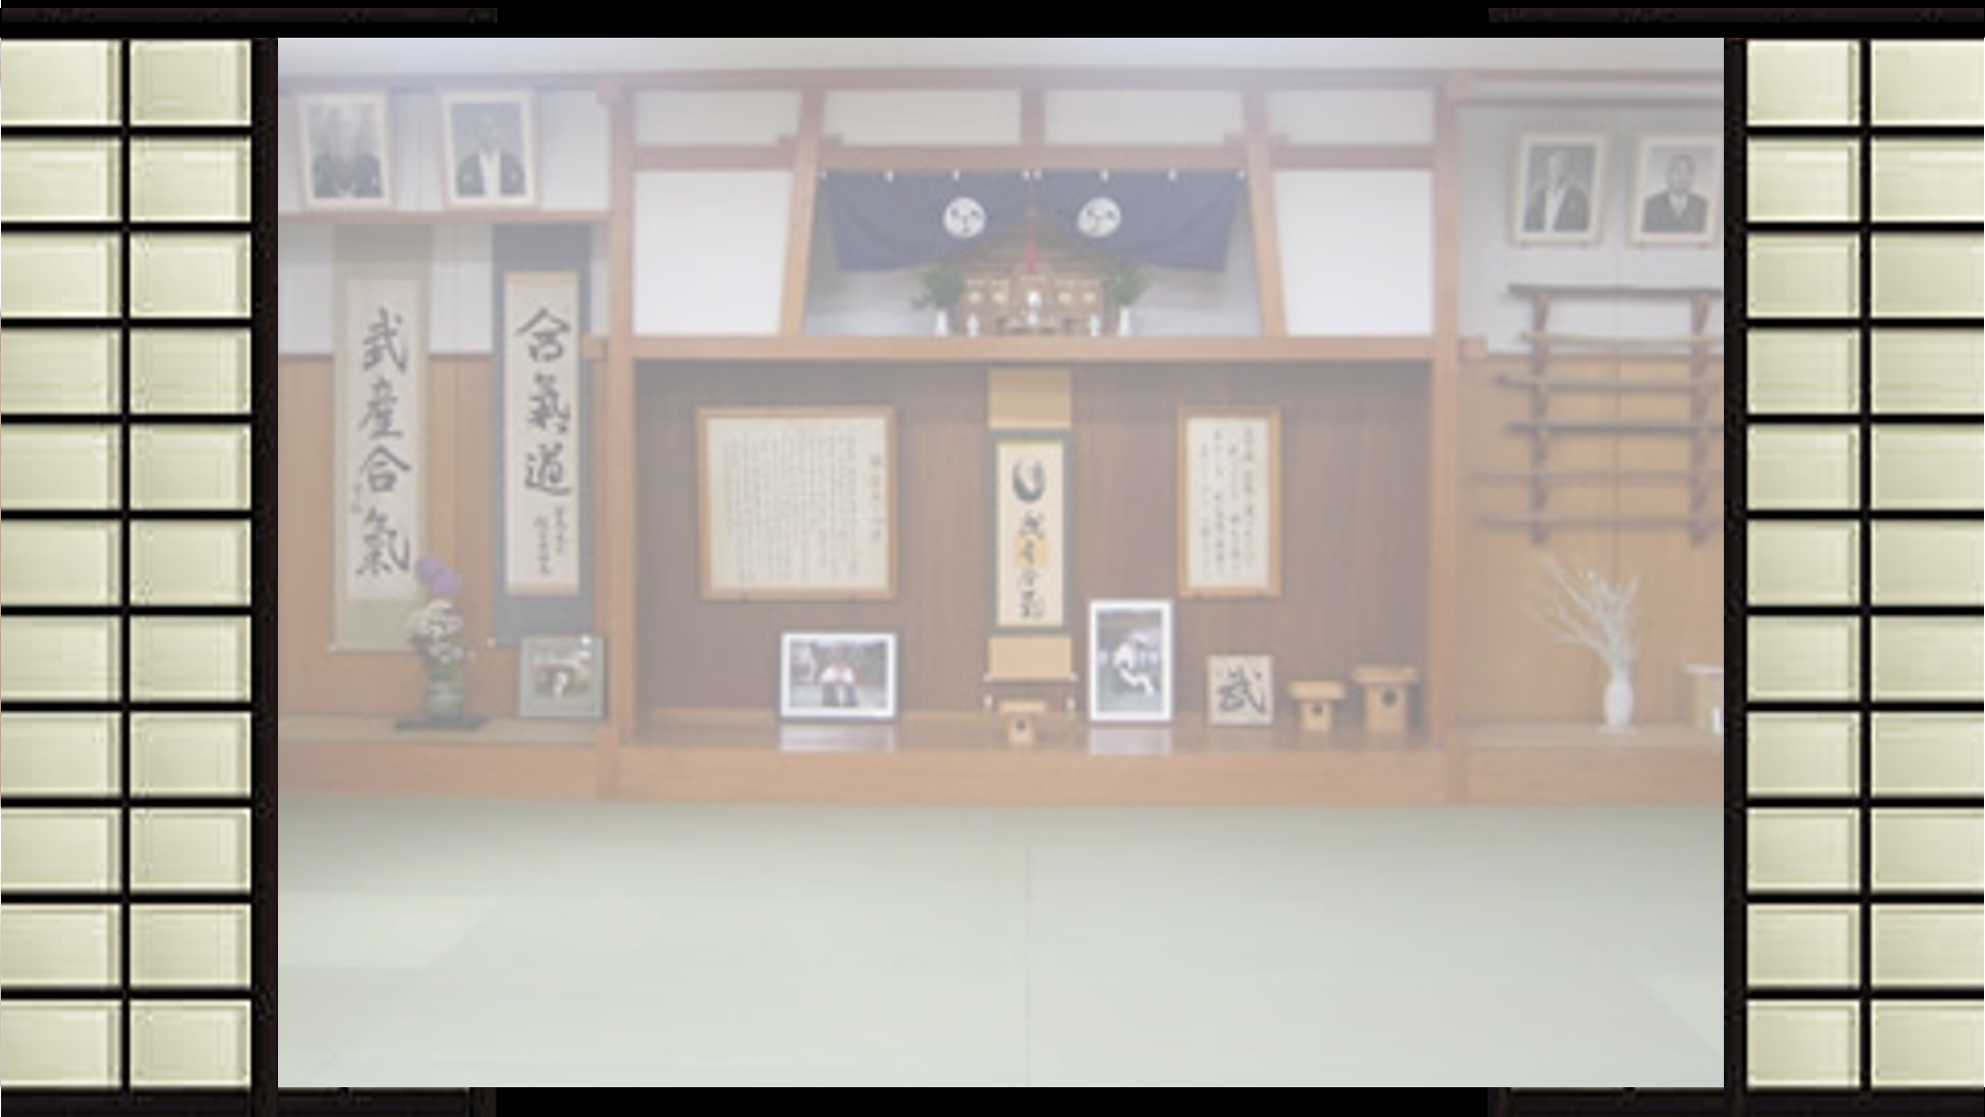
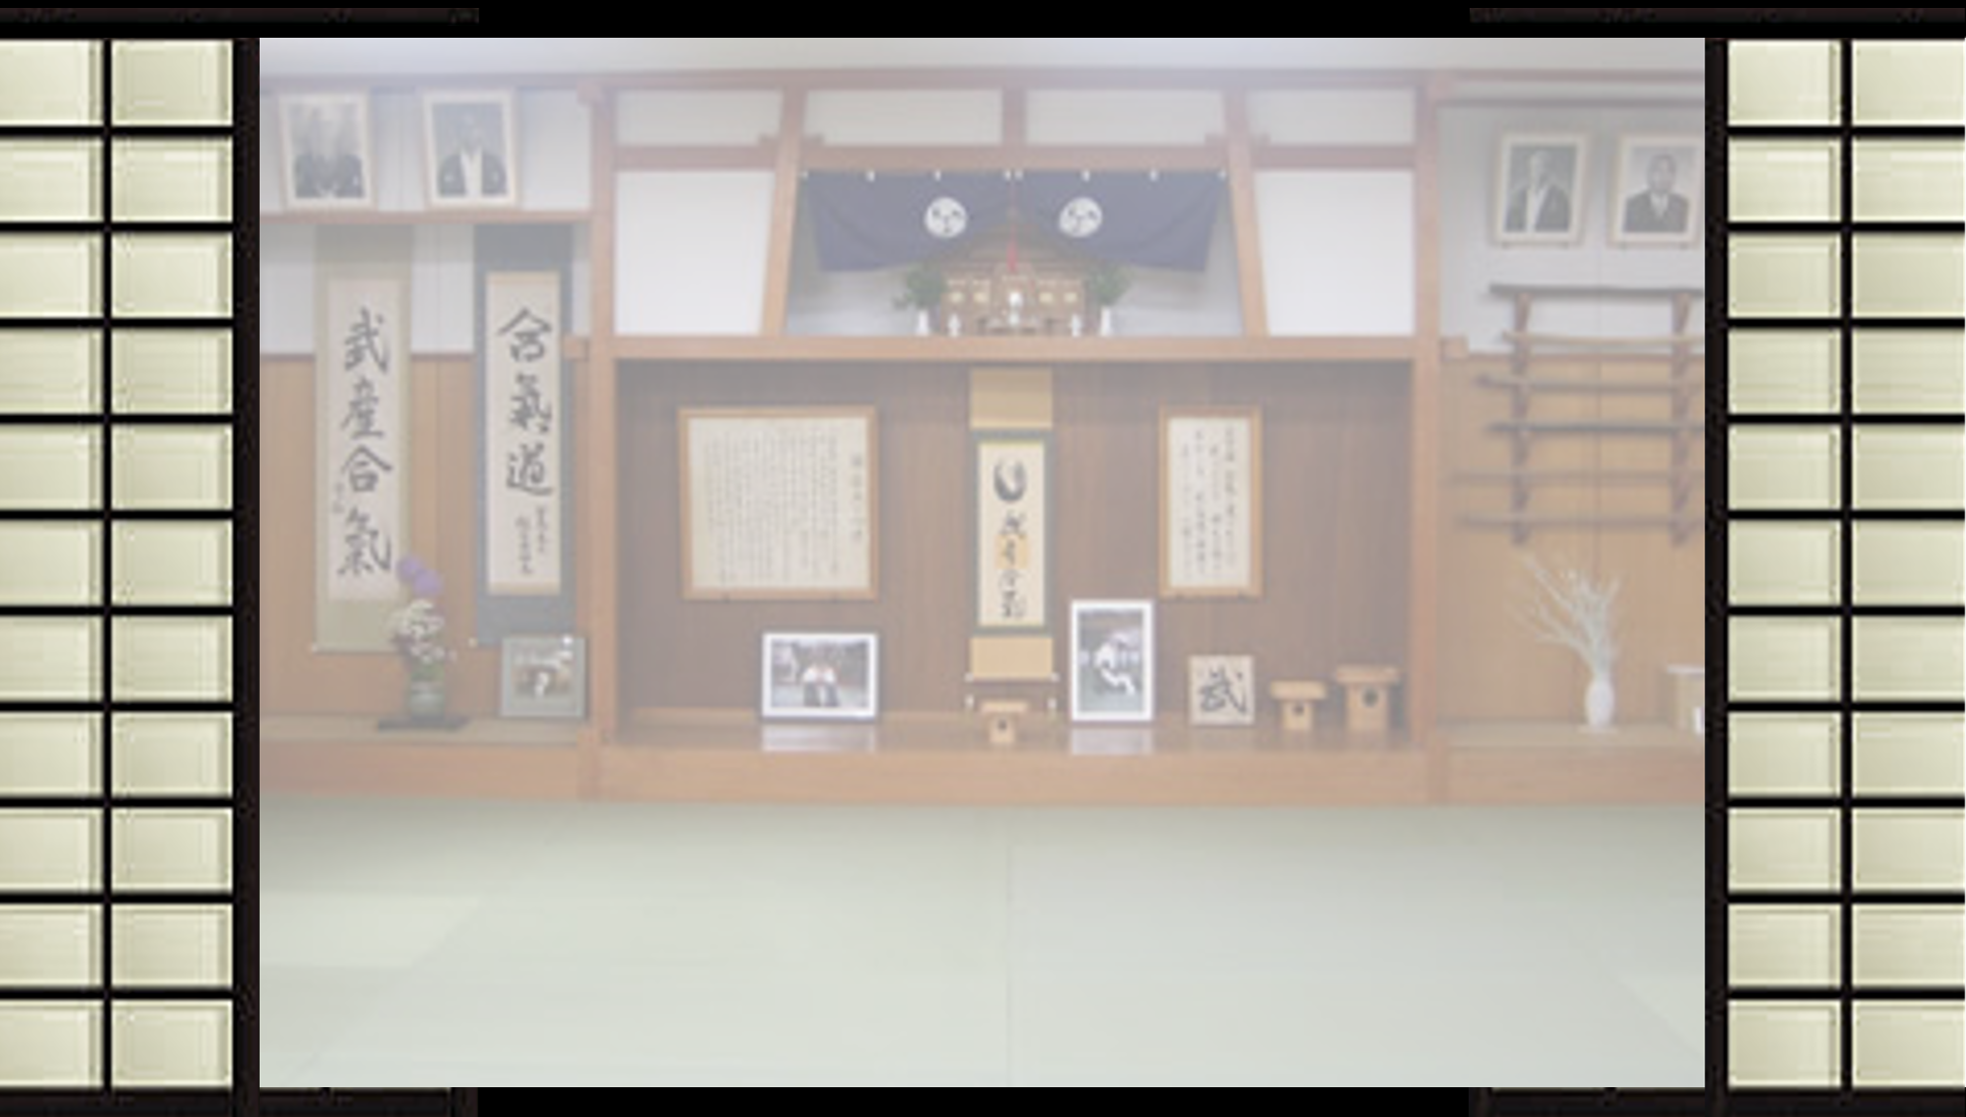
Release to heroku

diff --git a/app/assets/stylesheets/honorifics.scss b/app/assets/stylesheets/honorifics.scss
@@ -10,12 +10,12 @@
 /* 問題全体のデザイン */
 
 body{
-    background-image: url("問題.png");
+    background-image: url("道場.png");
     background-size: 100%;
 
 /* 選択問題のデザイン */
     .quiz_area{
-        font-size: 40px;
+        font-size: 50px;
         font-family: "游ゴシック",sans-serif;
         font-weight: bold;
         letter-spacing: 3px;
@@ -119,67 +119,105 @@ body{
         font-weight: bold;
         letter-spacing: 2px;
     
-        line-height: 60px;
-
         text-align: center;
         display: flex;
         justify-content: center;
         
         .quiz_no{
             position: relative;
-            top: -25px;
+            top: 70px;
+            padding: 10px 10px 10px 10px;
+            color: #2c2c2f;
+            background: khaki;
         }
 
         .contents1{
             position: relative;
             top: 90px;
+            padding: 20px 66px 20px 66px;;
+            color: #2c2c2f;
+            background-color: khaki;
+
         }
 
         .contents2{
             position: relative;
             top: 90px;
+            padding: 20px 66px 20px 66px;;
+            color: #2c2c2f;
+            background-color: khaki;
         }
         .contents3{
             position: relative;
             top: 90px;
+            padding: 20px 48px 20px 48px;;
+            color: #2c2c2f;
+            background-color: khaki;
         }
         .contents4{
             position: relative;
             top: 90px;
+            padding: 20px 66px 20px 66px;;
+            color: #2c2c2f;
+            background-color: khaki;
         }
         .contents5{
             position: relative;
             top: 90px;
-        }
+            padding: 20px 66px 20px 66px;;
+            color: #2c2c2f;
+            background-color: khaki;
+       }
         .contents6{
             position: relative;
             top: 90px;
+            padding: 20px 66px 20px 66px;;
+            color: #2c2c2f;
+            background-color: khaki;
         }
         .contents7{
             position: relative;
             top: 90px;
+            padding: 20px 66px 20px 66px;;
+            color: #2c2c2f;
+            background-color: khaki;
         }
         .contents8{
             position: relative;
             top: 90px;
+            padding: 20px 66px 20px 66px;;
+            color: #2c2c2f;
+            background-color: khaki;
         }
         .contents9{
             position: relative;
             top: 90px;
+            padding: 20px 29px 20px 29px;;
+            color: #2c2c2f;
+            background-color: khaki;
         }
         .contents10{
             position: relative;
             top: 90px;
+            padding: 20px 48px 20px 48px;;
+            color: #2c2c2f;
+            background-color: khaki;
         }
 
         .quiz_write_answer{
             position: relative;
             top: 140px;
+            padding: 10px 20px 10px 20px;
+            color: #2c2c2f;
+            background:whitesmoke
         }
 
         .quiz_ans_area{
             position: relative;
             top: 190px;
+            padding: 10px 20px 10px 20px;
+            color: #2c2c2f;
+            background:whitesmoke
         }
 
         FORM{
